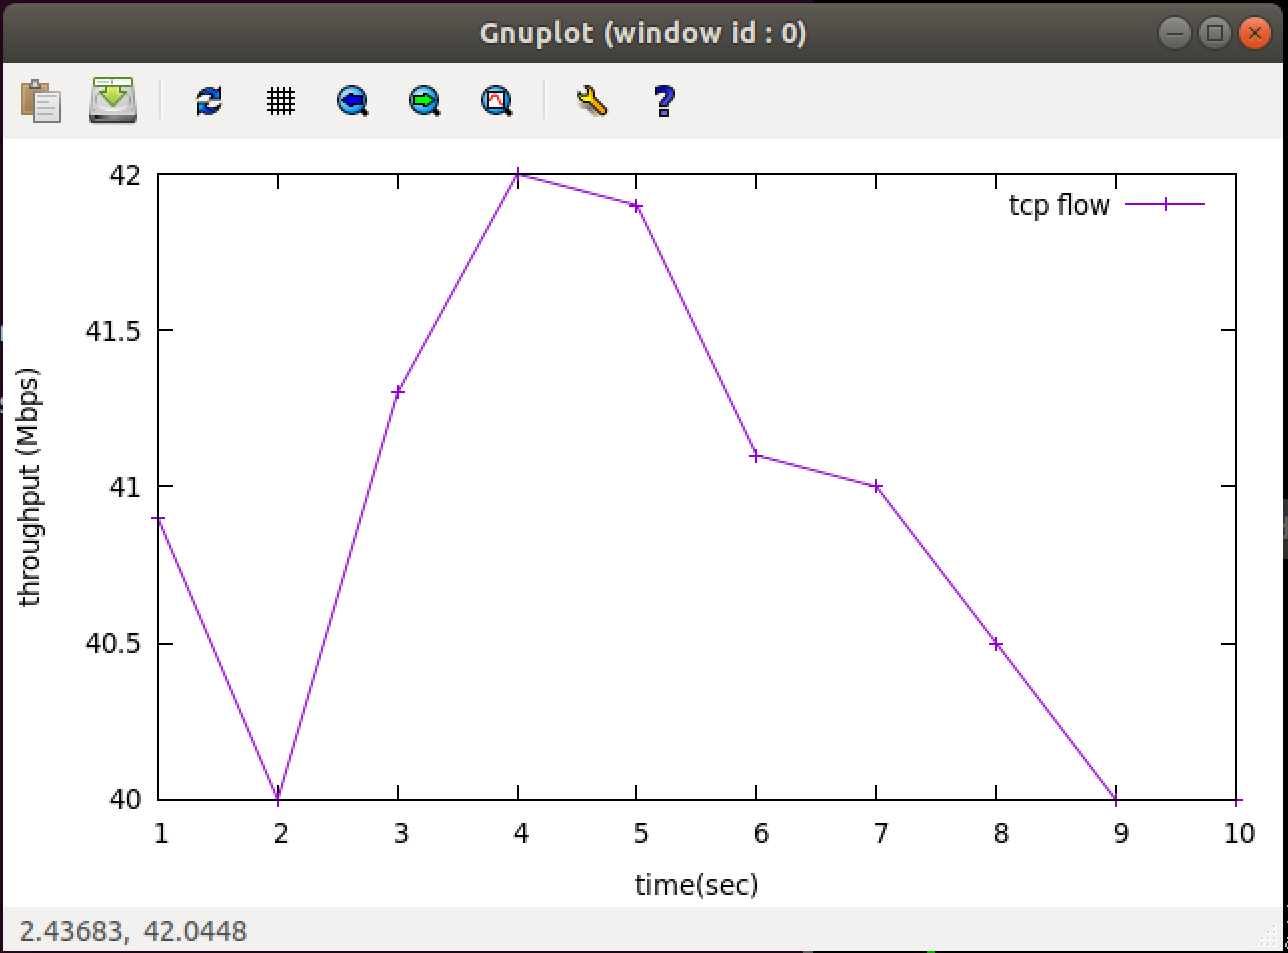
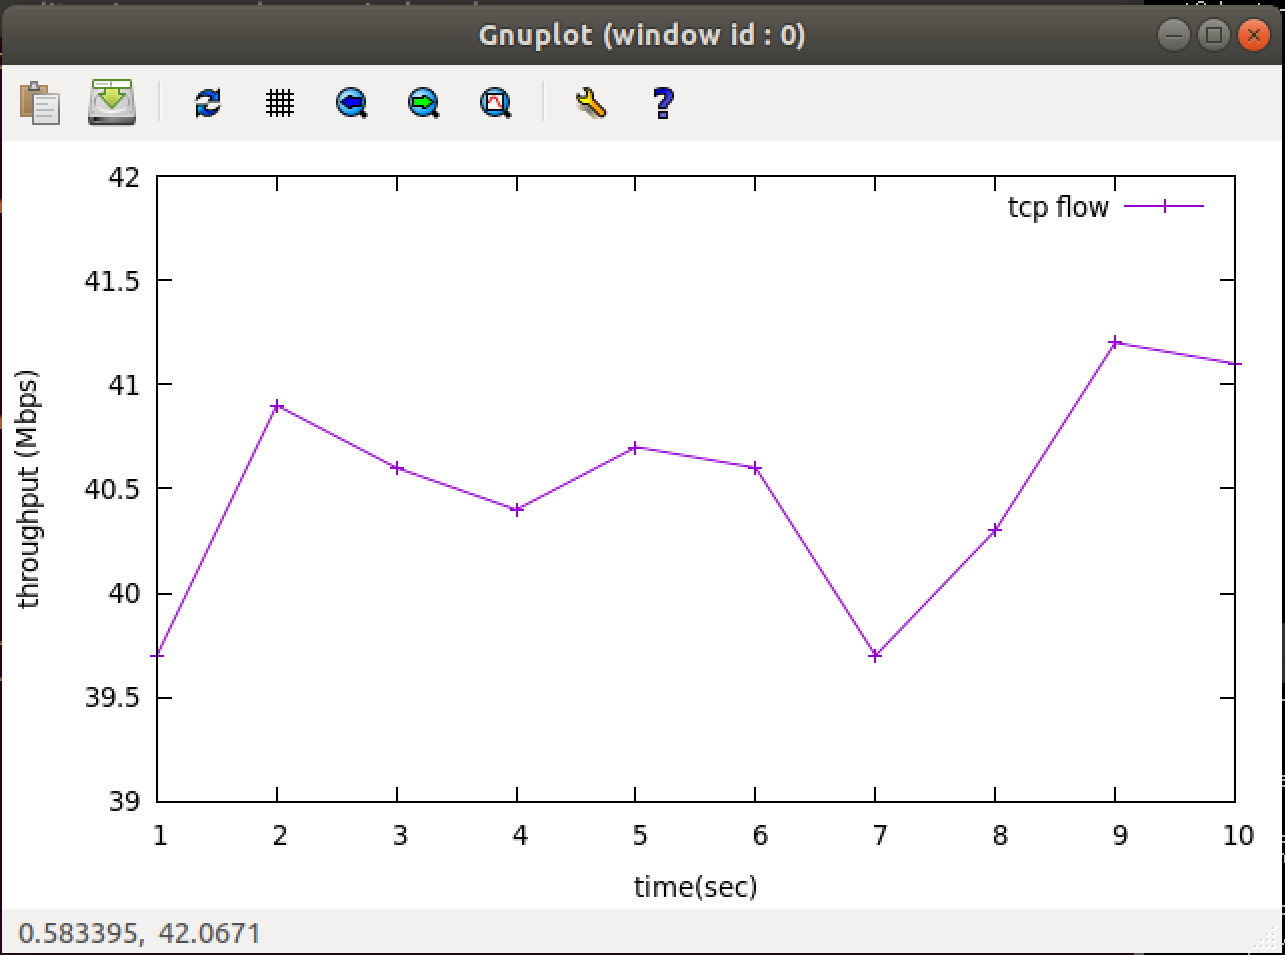
update

diff --git a/Week 6.md b/Week 6.md
@@ -67,9 +67,9 @@
 9. 在 xterm h2 進入 gnuplot：`gnuplot`
 10. 在 gnuplot 命令行中，將剛才得到的文件 new_result 畫圖：`plot "new_result" title "tcp flow" with linespoints`
     <img src="Week 6\tcp_flow.PNG" width="700px" />
-11. 將縱座標範圍改爲 40-42，添加橫縱座標標籤，並重新作圖
+11. 將縱座標範圍改爲 39-42，添加橫縱座標標籤，並重新作圖
     ```python
-    set yrang [40:42]
+    set yrang [39:42]
     set xlabel "time (sec)"
     set ylabel "tcp throughput (Mbps)"
     replot
